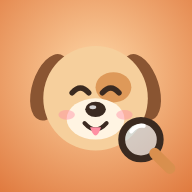
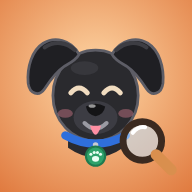
Add files via upload

diff --git a/index.html b/index.html
@@ -130,7 +130,7 @@ h2{font-size:17px;margin:0 0 8px}
 
 <script>
 'use strict';
-const APP_VERSION = '3.1.1';
+const APP_VERSION = '3.2.0';
 const $ = s => document.querySelector(s);
 const app = $('#app');
 const esc = s => String(s ?? '').replace(/[&<>"']/g, c => ({'&':'&amp;','<':'&lt;','>':'&gt;','"':'&quot;',"'":'&#39;'}[c]));
@@ -228,38 +228,52 @@ function applyStatic() {
   document.title = LANG === 'zh' ? '格價狗 PricePup' : 'PricePup 格價狗';
 }
 
-/* ---------- Puppy (original SVG character) ---------- */
+/* ---------- Puppy (original SVG character, based on our dog) ---------- */
+// Original cartoon of Silver's black puppy, v6: v1 round face + v5 folded ears, blue collar, green tag.
 function dog(mood = 'happy', acc = '', cls = '') {
-  const light = '#f6cf9c', patch = '#d98f4e', ear = '#8a5532', cream = '#fff4e2', ink = '#3b2a20', pink = '#ff8fa3';
-  const line = (d, w = 3) => `<path d="${d}" stroke="${ink}" stroke-width="${w}" fill="none" stroke-linecap="round"/>`;
+  const fur = '#2a2a2e', furHi = '#3d3d43', earC = '#1f1f23', muzzle = '#3c3c43', rim = '#5d5d66', ink = '#141416',
+        eye = '#8a5426', light = '#f1dcc0', pink = '#ff8fa3', collar = '#2f6fdc', tag = '#2fa36b';
+  const ln = (d, c = light, w = 3) => `<path d="${d}" stroke="${c}" stroke-width="${w}" fill="none" stroke-linecap="round"/>`;
+  const openEyes = (y = 57, r = 6.2) => `
+    <circle cx="48" cy="${y}" r="${r}" fill="${eye}"/><circle cx="72" cy="${y}" r="${r}" fill="${eye}"/>
+    <circle cx="48" cy="${y + .6}" r="${r * .55}" fill="${ink}"/><circle cx="72" cy="${y + .6}" r="${r * .55}" fill="${ink}"/>
+    <circle cx="50" cy="${y - 2.2}" r="2" fill="#fff"/><circle cx="74" cy="${y - 2.2}" r="2" fill="#fff"/>`;
   const eyes = {
-    happy: line('M43 58q6-7 12 0M65 58q6-7 12 0', 4),
-    normal: `<circle cx="49" cy="58" r="5.5" fill="${ink}"/><circle cx="71" cy="58" r="5.5" fill="${ink}"/><circle cx="51" cy="56" r="1.8" fill="#fff"/><circle cx="73" cy="56" r="1.8" fill="#fff"/>`,
-    sniff: `<circle cx="49" cy="60" r="5" fill="${ink}"/><circle cx="71" cy="60" r="5" fill="${ink}"/><circle cx="50.5" cy="58.5" r="1.6" fill="#fff"/><circle cx="72.5" cy="58.5" r="1.6" fill="#fff"/>`,
-    sad: `<circle cx="49" cy="60" r="4.5" fill="${ink}"/><circle cx="71" cy="60" r="4.5" fill="${ink}"/>` + line('M41 52l11-4M79 52l-11-4'),
-    sleep: line('M43 59q6 5 12 0M65 59q6 5 12 0', 3.5)
+    happy: ln('M42 58q6-7 12 0M66 58q6-7 12 0', light, 3.6),
+    normal: openEyes(),
+    sniff: openEyes(59, 5.6),
+    sad: openEyes(59, 5.4) + ln('M40 50l11 -4M80 50l-11 -4', '#77777f', 2.6),
+    sleep: ln('M42 59q6 5 12 0M66 59q6 5 12 0', light, 3)
   }[mood] || '';
   const mouth = {
-    happy: line('M52 80q8 9 16 0') + `<path d="M56 83q4 12 8 0z" fill="${pink}"/>`,
-    normal: line('M53 80q7 6 14 0'), sniff: line('M55 81q5 3 10 0'), sad: line('M53 85q7-6 14 0'), sleep: line('M56 81q4 2 8 0')
+    happy: ln('M52 80q8 8 16 0', '#9a9aa3') + `<path d="M56 82q4 13 8 0z" fill="${pink}"/>`,
+    normal: ln('M53 80q7 5 14 0', '#9a9aa3'), sniff: ln('M55 81q5 3 10 0', '#9a9aa3'),
+    sad: ln('M53 84q7-6 14 0', '#9a9aa3'), sleep: ln('M56 81q4 2 8 0', '#9a9aa3')
   }[mood] || '';
   const extra = {
-    glass: `<circle cx="93" cy="92" r="14" fill="rgba(190,225,255,.55)" stroke="${ink}" stroke-width="5"/><path d="M103 102l11 11" stroke="${patch}" stroke-width="8" stroke-linecap="round"/><path d="M86 86q4-5 9-4" stroke="#fff" stroke-width="3" fill="none" stroke-linecap="round"/>`,
-    tag: `<g transform="rotate(-18 24 96)"><path d="M10 86h22l9 10-9 10H10z" fill="#ffd166" stroke="${ink}" stroke-width="3" stroke-linejoin="round"/><circle cx="33" cy="96" r="2.5" fill="${ink}"/><text x="20" y="102" font-size="15" font-weight="800" text-anchor="middle" fill="${ink}" font-family="Arial">$</text></g>`,
-    z: `<text x="88" y="30" font-size="16" font-weight="800" fill="${patch}" font-family="Arial">z</text><text x="100" y="18" font-size="12" font-weight="800" fill="${patch}" font-family="Arial">z</text>`,
-    party: `<path d="M18 30l6 6M14 44h8M100 30l-6 6M106 44h-8" stroke="#ffb703" stroke-width="3.5" stroke-linecap="round"/><circle cx="24" cy="22" r="3" fill="#ff8fa3"/><circle cx="98" cy="20" r="3" fill="#8ecae6"/>`,
-    tear: `<path d="M77 66q3 6 0 9q-3-3 0-9z" fill="#8ecae6"/>`
+    glass: `<circle cx="94" cy="93" r="14" fill="rgba(190,225,255,.55)" stroke="#3b2a20" stroke-width="5"/><path d="M104 103l11 11" stroke="#d98f4e" stroke-width="8" stroke-linecap="round"/><path d="M87 87q4-5 9-4" stroke="#fff" stroke-width="3" fill="none" stroke-linecap="round"/>`,
+    tag: `<g transform="rotate(-18 22 98)"><path d="M8 88h22l9 10-9 10H8z" fill="#ffd166" stroke="#3b2a20" stroke-width="3" stroke-linejoin="round"/><circle cx="31" cy="98" r="2.5" fill="#3b2a20"/><text x="18" y="104" font-size="15" font-weight="800" text-anchor="middle" fill="#3b2a20" font-family="Arial">$</text></g>`,
+    z: `<text x="92" y="22" font-size="16" font-weight="800" fill="#d98f4e" font-family="Arial">z</text><text x="104" y="12" font-size="12" font-weight="800" fill="#d98f4e" font-family="Arial">z</text>`,
+    party: `<path d="M14 30l6 4M10 42h8M106 30l-6 4M110 42h-8" stroke="#ffb703" stroke-width="3.5" stroke-linecap="round"/><circle cx="18" cy="22" r="3" fill="#ff8fa3"/><circle cx="102" cy="21" r="3" fill="#8ecae6"/>`,
+    tear: `<path d="M78 66q3 6 0 9q-3-3 0-9z" fill="#8ecae6"/>`
   }[acc] || '';
   return `<svg class="dog ${cls}" viewBox="0 0 120 120" aria-hidden="true">
-    <g class="ear l"><ellipse cx="27" cy="54" rx="13" ry="25" transform="rotate(18 27 54)" fill="${ear}"/></g>
-    <g class="ear r"><ellipse cx="93" cy="54" rx="13" ry="25" transform="rotate(-18 93 54)" fill="${ear}"/></g>
-    <circle cx="60" cy="62" r="38" fill="${light}"/>
-    <ellipse cx="73" cy="54" rx="13" ry="11" fill="${patch}" opacity=".85"/>
-    <ellipse cx="60" cy="77" rx="21" ry="15" fill="${cream}"/>
+    <path d="M40 90 Q60 104 80 90 L80 98 Q60 112 40 98 Z" fill="${fur}"/>
+    <ellipse cx="60" cy="60" rx="31" ry="33" fill="${fur}" stroke="${rim}" stroke-width="2"/>
+    <ellipse cx="52" cy="40" rx="10" ry="5" fill="${furHi}" opacity=".7"/>
+    <g class="ear l"><path d="M48 30 C42 19 30 17 22 22 C14 27 10 39 11 51 C12 59 19 61 23 55 C27 49 31 43 37 39 C42 36 46 34 48 30 Z" fill="${earC}" stroke="${rim}" stroke-width="2" stroke-linejoin="round"/>
+      <path d="M45 27 C39 21 30 20 23 25" stroke="${furHi}" stroke-width="3" fill="none" stroke-linecap="round"/></g>
+    <g class="ear r"><path d="M72 30 C78 19 90 17 98 22 C106 27 110 39 109 51 C108 59 101 61 97 55 C93 49 89 43 83 39 C78 36 74 34 72 30 Z" fill="${earC}" stroke="${rim}" stroke-width="2" stroke-linejoin="round"/>
+      <path d="M75 27 C81 21 90 20 97 25" stroke="${furHi}" stroke-width="3" fill="none" stroke-linecap="round"/></g>
+    <ellipse cx="60" cy="76" rx="16" ry="12" fill="${muzzle}"/>
     ${eyes}
-    <ellipse cx="60" cy="70" rx="7.5" ry="5.5" fill="${ink}"/><ellipse cx="58" cy="68.5" rx="2.5" ry="1.4" fill="#fff" opacity=".8"/>
-    <ellipse cx="39" cy="74" rx="6" ry="3.5" fill="${pink}" opacity=".45"/><ellipse cx="81" cy="74" rx="6" ry="3.5" fill="${pink}" opacity=".45"/>
-    ${mouth}${extra}</svg>`;
+    <path d="M53 68 Q60 64 67 68 Q66 74 60 75 Q54 74 53 68 Z" fill="${ink}"/><ellipse cx="57.5" cy="67.6" rx="2.6" ry="1.3" fill="#fff" opacity=".55"/>
+    <ellipse cx="38" cy="73" rx="5.5" ry="3.2" fill="${pink}" opacity=".35"/><ellipse cx="82" cy="73" rx="5.5" ry="3.2" fill="${pink}" opacity=".35"/>
+    ${mouth}
+    <path d="M38 89 Q60 101 82 89" stroke="${collar}" stroke-width="6" fill="none" stroke-linecap="round"/>
+    <circle cx="60" cy="96" r="2" fill="#c9ccd3"/><circle cx="60" cy="104" r="7" fill="${tag}" stroke="#1f7a4f" stroke-width="1.5"/>
+    <g fill="#e9fff3"><ellipse cx="60" cy="106" rx="2.6" ry="2.1"/><circle cx="56.6" cy="102.6" r="1.1"/><circle cx="59" cy="101.4" r="1.1"/><circle cx="61.4" cy="101.4" r="1.1"/><circle cx="63.6" cy="102.6" r="1.1"/></g>
+    ${extra}</svg>`;
 }
 
 function toast(msg, ms = 2600) {

diff --git a/sw.js b/sw.js
@@ -1,5 +1,5 @@
 // 格價簿 service worker: offline app shell + cache OCR library files.
-const VERSION = 'pricepup-v3.1.1';
+const VERSION = 'pricepup-v3.2.0';
 const SHELL = ['./', './index.html', './manifest.webmanifest', './icon-192.png', './icon-512.png'];
 self.addEventListener('install', e => {
   e.waitUntil(caches.open(VERSION).then(c => c.addAll(SHELL)).then(() => self.skipWaiting()));
